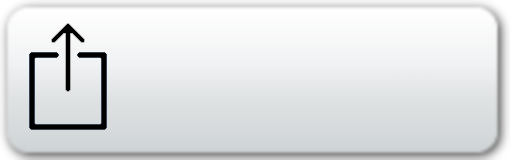
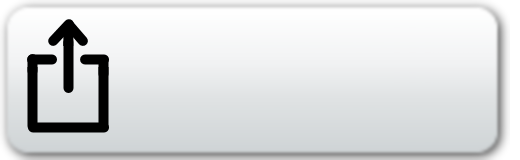
Issue:SDK-545 New Game 버튼에도 아이콘을 넣는다.

Changed region(s): [[0.0308, 0.125, 0.2154, 0.8438]]

diff --git a/Classes/MainViewController.m b/Classes/MainViewController.m
@@ -590,7 +590,7 @@
     [buttonHint			setTitle:gettext(@"hint", nil) forState:UIControlStateNormal];
     [buttonHint			setTitle:gettext(@"hint", nil) forState:UIControlStateDisabled];
     [buttonCloseButton  setTitle:@"" forState:UIControlStateNormal];
-    [buttonPlayNew      setTitle:gettext(@"New game", nil) forState:UIControlStateNormal];
+    [buttonPlayNew      setTitle:[@"    " stringByAppendingString:gettext(@"New game", nil)] forState:UIControlStateNormal];
     [buttonPlayAgain    setTitle:[@"    " stringByAppendingString:gettext(@"Play again", nil)] forState:UIControlStateNormal];
     [buttonSeeReplay    setTitle:[@"    " stringByAppendingString:gettext(@"Watch replay", nil)] forState:UIControlStateNormal];
     [buttonPuzzleShare    setTitle:[@"    " stringByAppendingString:gettext(@"Puzzle share", nil)] forState:UIControlStateNormal];
